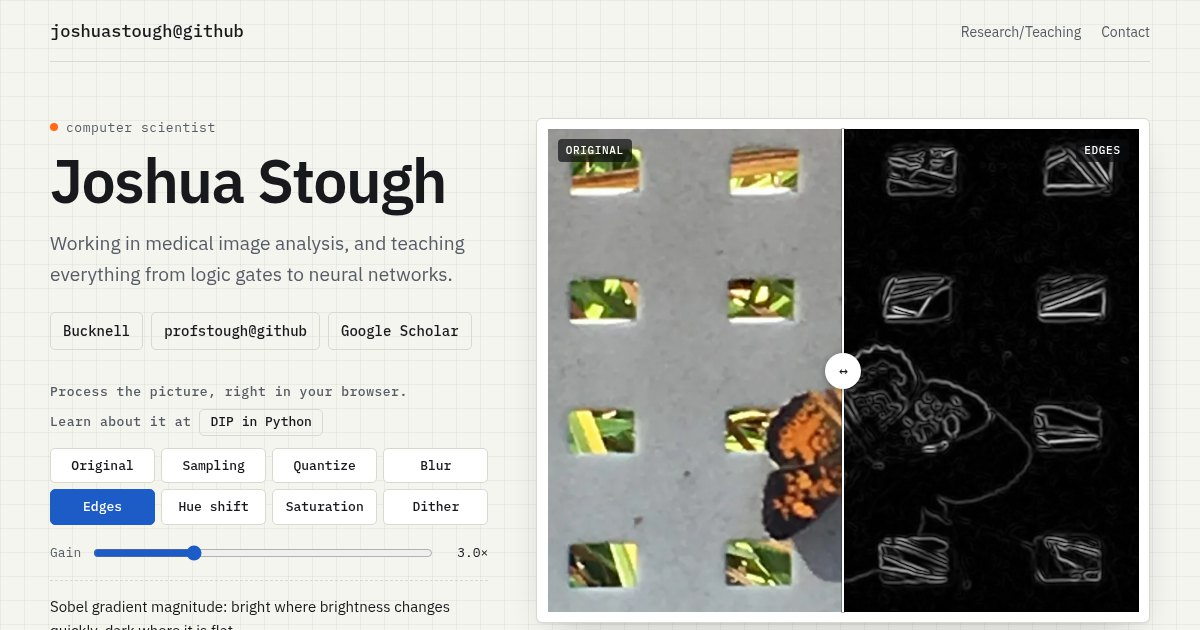
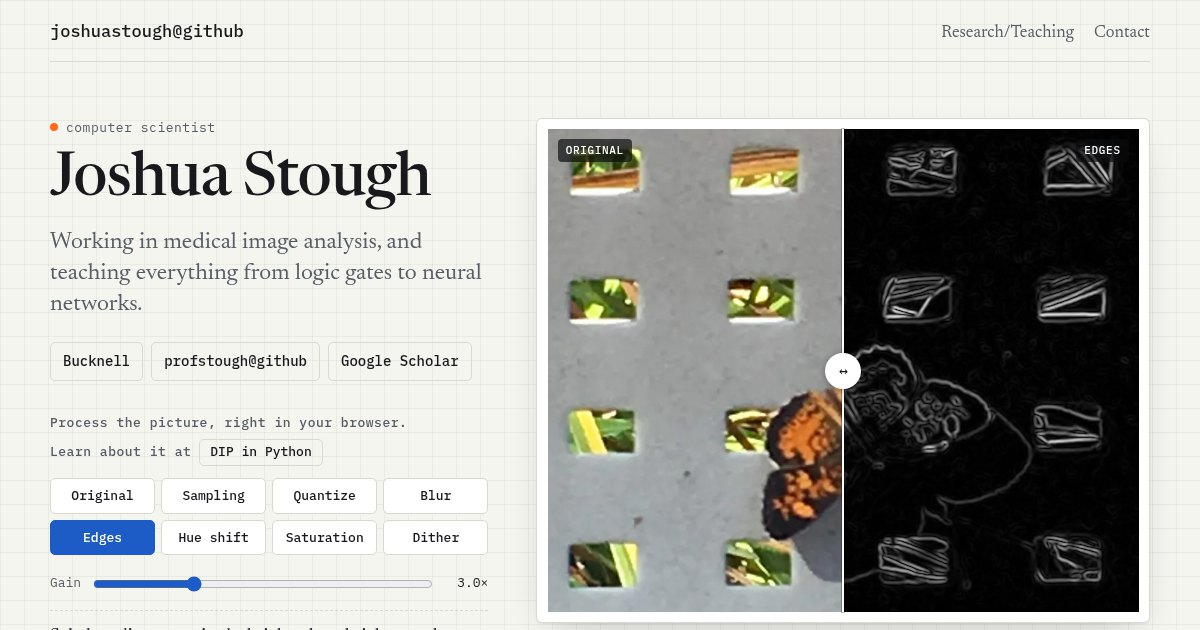
Type: Newsreader for text, IBM Plex Mono for the computer parts
IBM Plex Sans is gone, so the page uses two families. Newsreader takes the
name, blurbs, captions, card, nav and footer; Plex Mono keeps the header
name, eyebrow, lab controls, labels and buttons. Newsreader's small x-height
is matched to Plex Mono with font-size-adjust (the name keeps its natural
size); headings drop to weight 500. The link-preview image is re-shot.

diff --git a/index.html b/index.html
@@ -34,7 +34,7 @@
   <link rel="preconnect" href="https://fonts.googleapis.com">
   <link rel="preconnect" href="https://fonts.gstatic.com" crossorigin>
   <link
-    href="https://fonts.googleapis.com/css2?family=IBM+Plex+Mono:wght@400;500&family=IBM+Plex+Sans:wght@400;500;600&display=swap"
+    href="https://fonts.googleapis.com/css2?family=IBM+Plex+Mono:wght@400;500&family=Newsreader:opsz,wght@6..72,400;6..72,500&display=swap"
     rel="stylesheet">
 
   <style>
@@ -99,7 +99,9 @@
         linear-gradient(90deg, var(--grid) 1px, transparent 1px);
       background-size: 24px 24px;
       color: var(--ink);
-      font: 400 17px/1.6 "IBM Plex Sans", system-ui, -apple-system, "Segoe UI", sans-serif;
+      font: 400 17px/1.6 "Newsreader", Georgia, "Times New Roman", serif;
+      /* Newsreader's x-height is small; match Plex Mono's so the two read at the same size. */
+      font-size-adjust: 0.516;
     }
 
     a {
@@ -225,9 +227,10 @@
 
     h1 {
       font-size: clamp(2.4rem, 5.2vw, 3.8rem);
-      font-weight: 600;
+      font-size-adjust: none;
+      font-weight: 500;
       line-height: 1.04;
-      letter-spacing: -0.025em;
+      letter-spacing: -0.015em;
     }
 
     .lede {
@@ -503,7 +506,7 @@
 
     .card h3 {
       font-size: clamp(1.5rem, 2.6vw, 2rem);
-      font-weight: 600;
+      font-weight: 500;
       line-height: 1.15;
       letter-spacing: -0.015em;
       margin-bottom: 12px;
